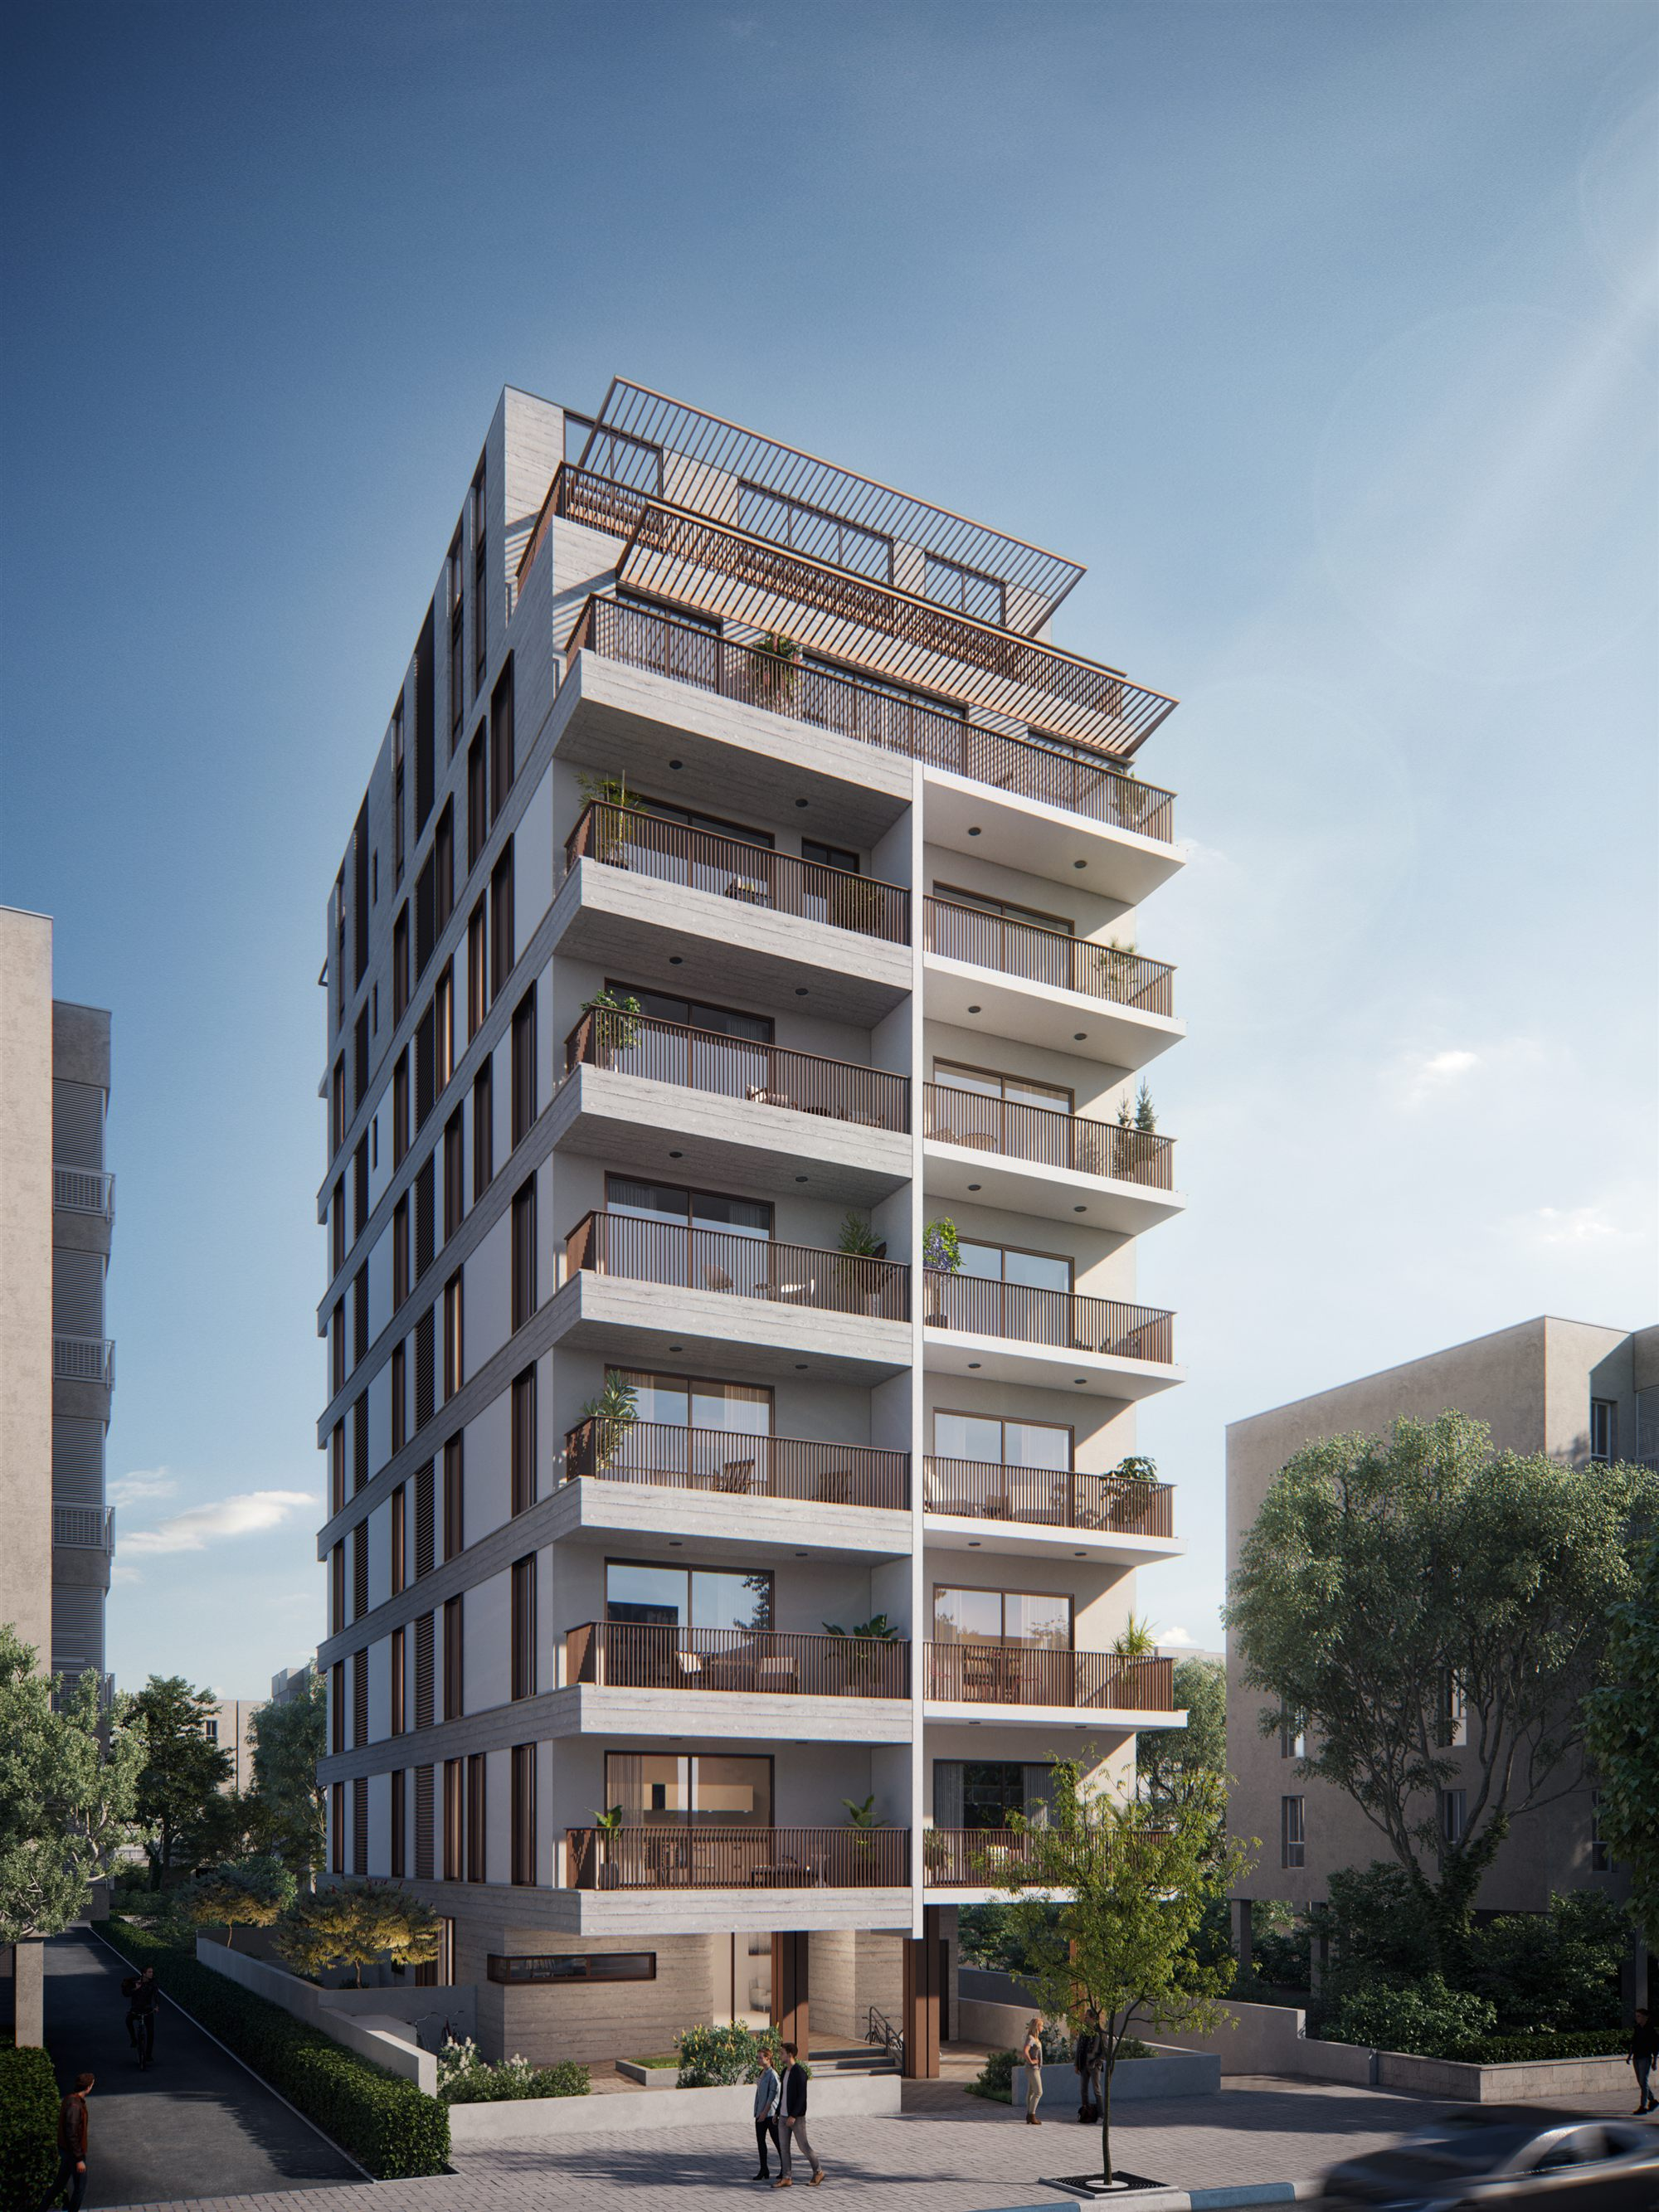
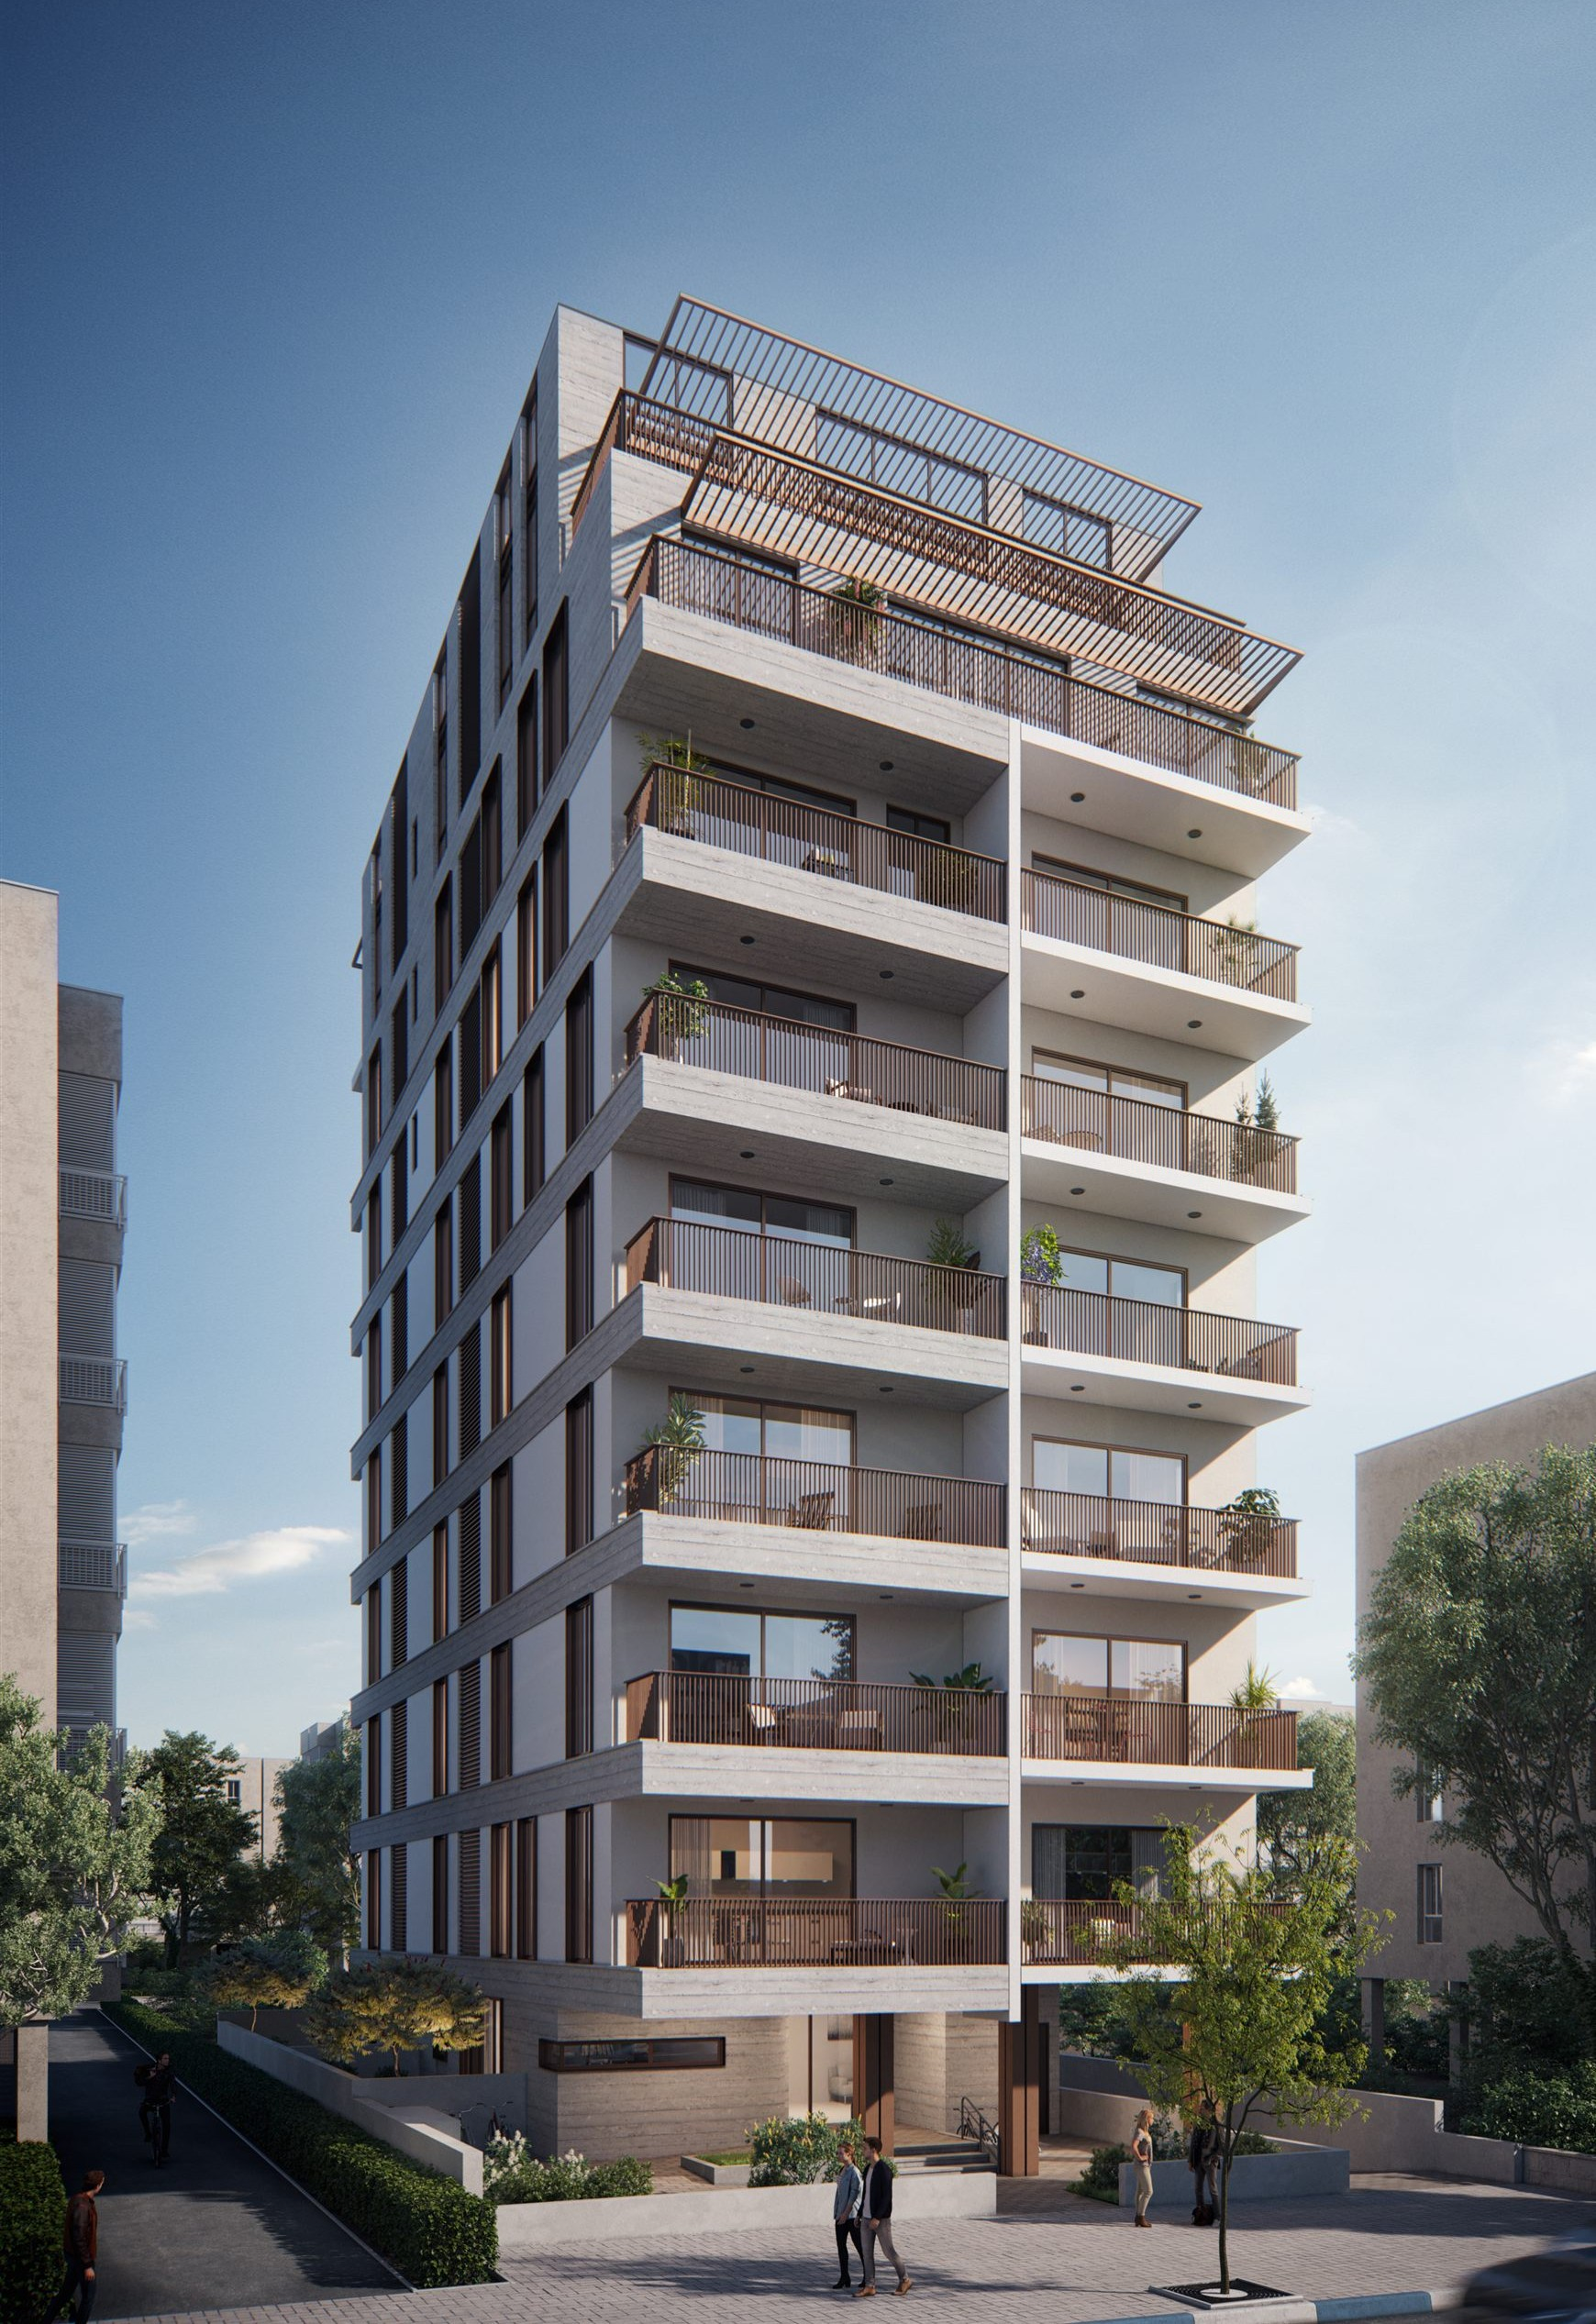
Crop weizmann-105 sky, enlarge detail gallery images sitewide
Trimmed excess sky above and to the right of the building per the
marked-up reference. Also bumped the gallery frame's max-height cap
from 60% to 68% of available viewport height for a bigger image
across all project pages, rechecked that portrait photos (einstein-19,
weizmann-105) still fit on screen at 900px height without pushing the
facts text off-screen.

diff --git a/app.js b/app.js
@@ -618,7 +618,7 @@
     function applyMaxFrameHeight() {
       const header = document.getElementById('site-header');
       const headerH = header ? header.offsetHeight : 80;
-      const maxH = Math.round((window.innerHeight - headerH) * 0.6);
+      const maxH = Math.round((window.innerHeight - headerH) * 0.68);
       stack.querySelectorAll('.image-frame').forEach(function (frame) {
         frame.style.maxHeight = maxH + 'px';
       });